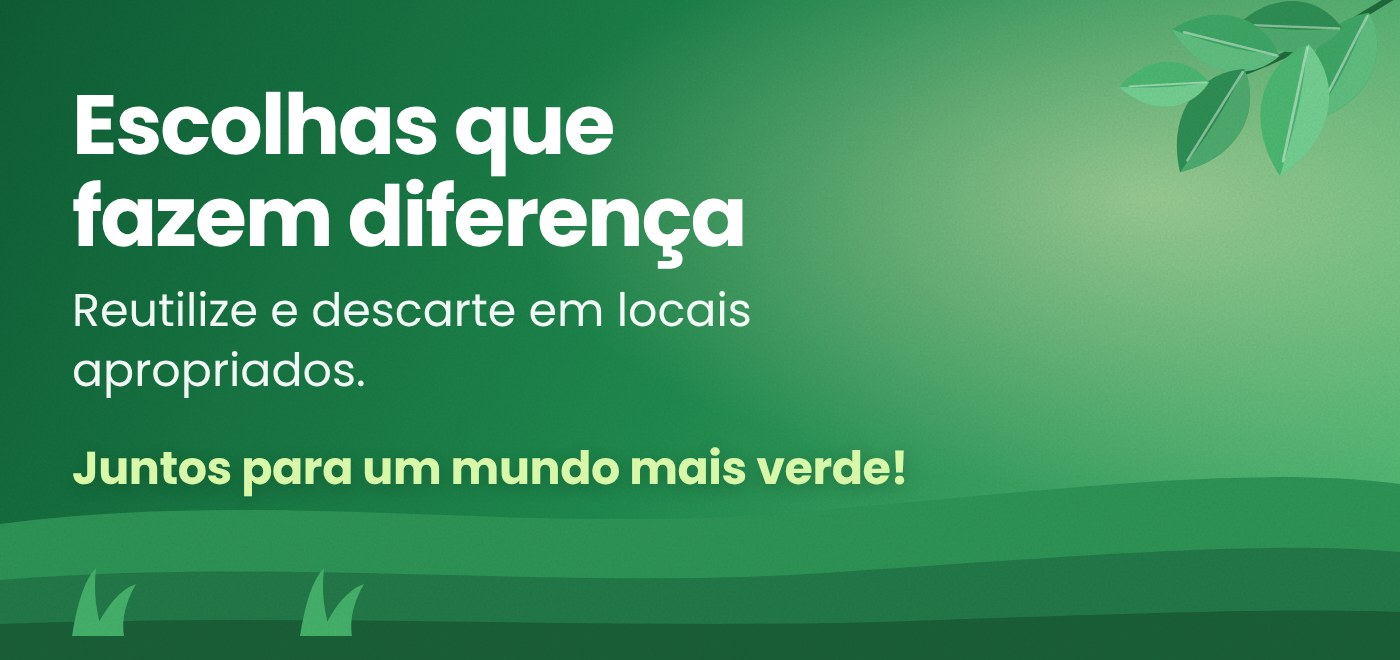
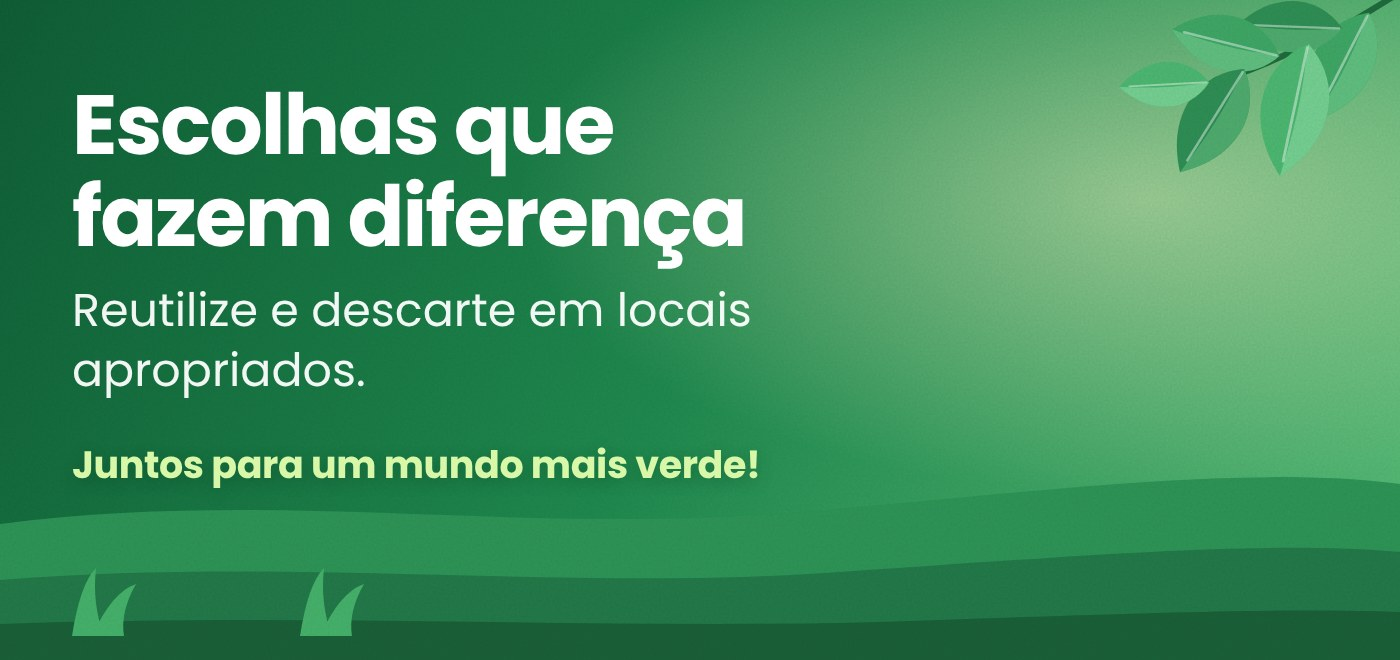
kasbfiah

Changed region(s): [[0.0307, 0.6667, 0.645, 0.7576]]

diff --git a/js/bannersInicio.js b/js/bannersInicio.js
@@ -86,7 +86,7 @@ var BANNERS_INTERVALO_MS = 5000;   // tempo de cada banner (5 segundos)
             ".banner[hidden]{display:none!important}" +
             ".banner.banner-extra::before{display:none}" +
             ".banner.banner-extra a,.banner.banner-extra picture{position:absolute;inset:0;display:block}" +
-            ".banner.banner-extra img{position:absolute;inset:0;width:100%;height:100%;object-fit:cover;opacity:1;z-index:0;transform:none;animation:none}" +
+            ".banner.banner-extra img{position:absolute;inset:0;width:100%;height:100%;object-fit:cover;object-position:left center;opacity:1;z-index:0;transform:none;animation:none}" +
             ".banner.banner-entra{animation:bannerEntra .55s ease}" +
             "@keyframes bannerEntra{from{opacity:0;transform:translateX(14px)}to{opacity:1;transform:none}}" +
             ".banner-ctrl{position:absolute;right:12px;bottom:10px;z-index:20;display:flex;align-items:center;gap:6px;padding:4px 5px 4px 10px;border-radius:999px;background:rgba(25,10,70,.45);-webkit-backdrop-filter:blur(6px);backdrop-filter:blur(6px)}" +
